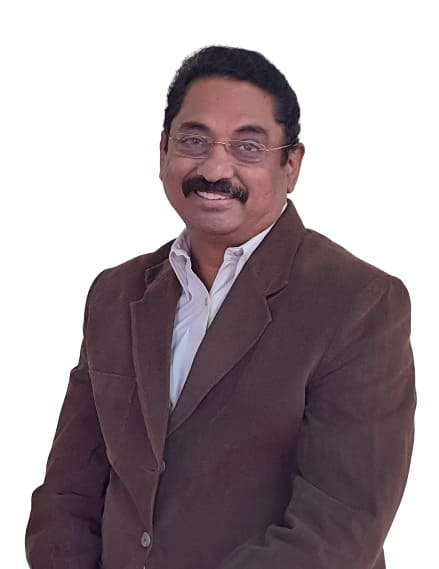
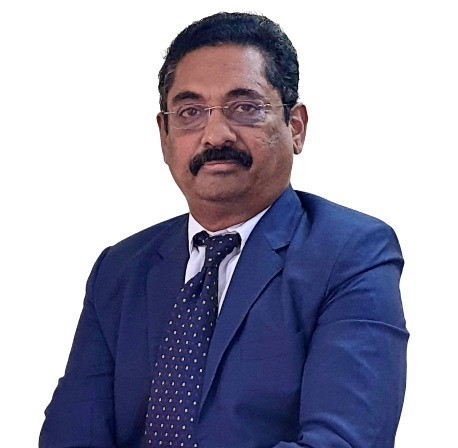
adjust management image and add marianne img for testing only

diff --git a/src/components/slider/Management.js b/src/components/slider/Management.js
@@ -89,7 +89,7 @@ const Management = () => {
                 name: "SEETHARAM SUBRAMANYAM",
                 position: "Group CHRO ",
                 position1:"Chief Human Resource Officer",
-                image: require('../images/management/Seetharam.jpg'),
+                image: require('../images/management/Seetharam1.jpg'),
                 description1: "Seetharam comes with over three decades of industry experience – predominantly in the IT Human Resource space which includes a significant global stint with the North American region and the Middle East. He has worked with Deloitte in USA and India, Satyam Computers, Computer Sciences Corporation, Birlasoft, CSS Corporation – to name a few. ",
                 description2: "Seetharam is a thought leader and an enterprising professional in driving the people agenda to facilitate business targets. He has managed human capital function, talent acquisition, workforce management and talent development. He has strong hands-on experience and process expertise building and managing teams across regions. He has played lead roles in design, integration and implementation of the HR function throughout different business models, domains, competencies and geographies.",
                 description3: "He is currently based out of Hyderabad and is in the midst of establishing our business operations in India. With his vast experience, he is developing our Business Human Resource strategy in line with the overall business plan and strategic direction of the organization."
@@ -106,12 +106,12 @@ const Management = () => {
             // },
             // {
             //     id: 8,
-            //     name: "KANESAN VELUPPILLAI",
-            //     position: "Corporate Advisor - Strategy",
-            //     position1:"Corporate Advisor – Strategy",
-            //     image: require('../images/management/Ganesan.jpg'),
-            //     description1: "Kanesan Veluppillai is the Group Corporate Advisor for Avows Technologies. He was inducted on 1 November 2020 and has a vast amount of experience in advisory services that includes areas of M&A, Funding, Human Capital Transformation, Investor Relations, Strategic Communications and Crisis Management.",
-            //     description2: "As the Group Advisor for Avows, Kanesan oversees the business financial strategy and key business development aspects for the company."
+            //     name: "MARIANNE",
+            //     position: "test",
+            //     position1:"test",
+            //     image: require('../images/management/Marianne1.jpg'),
+            //     description1: "",
+            //     description2: ""
             // },
             {
                 id: 9,
